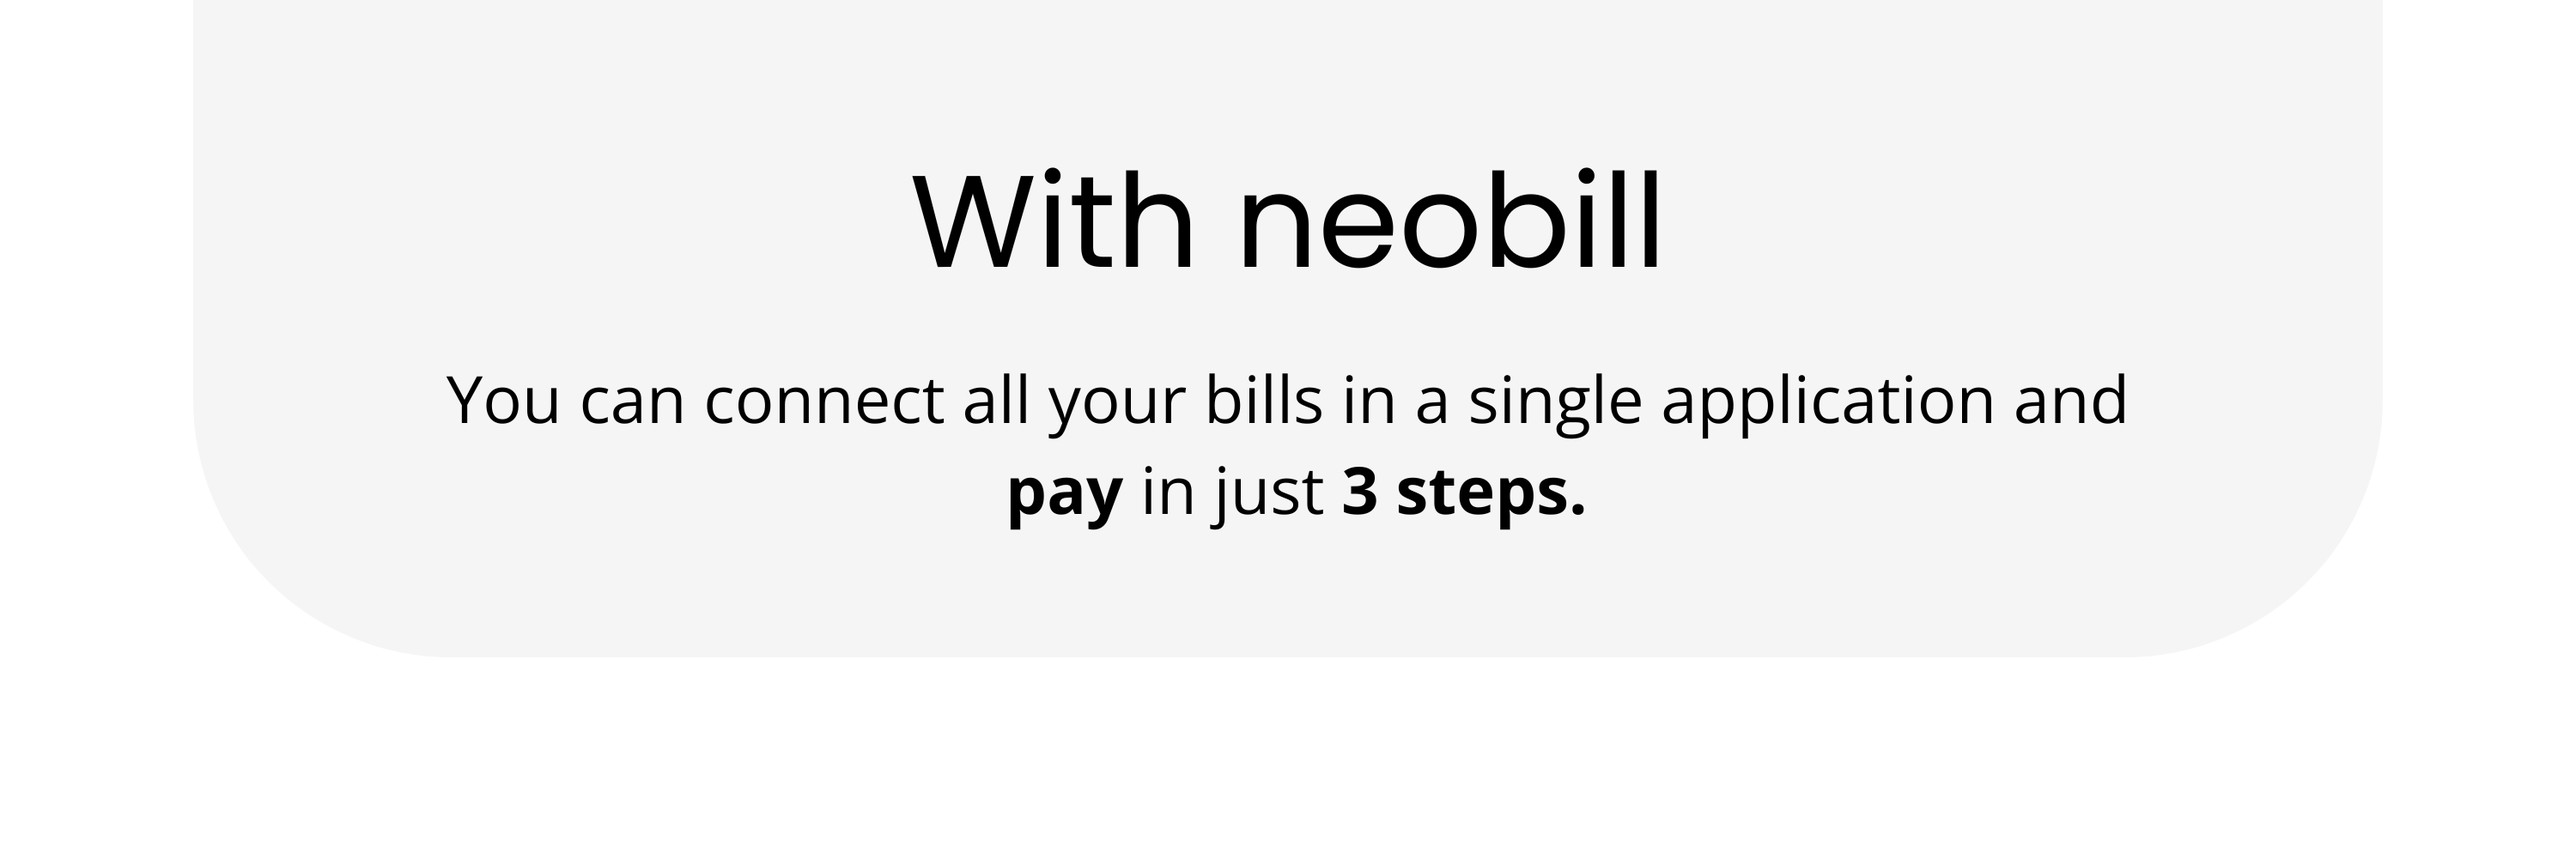
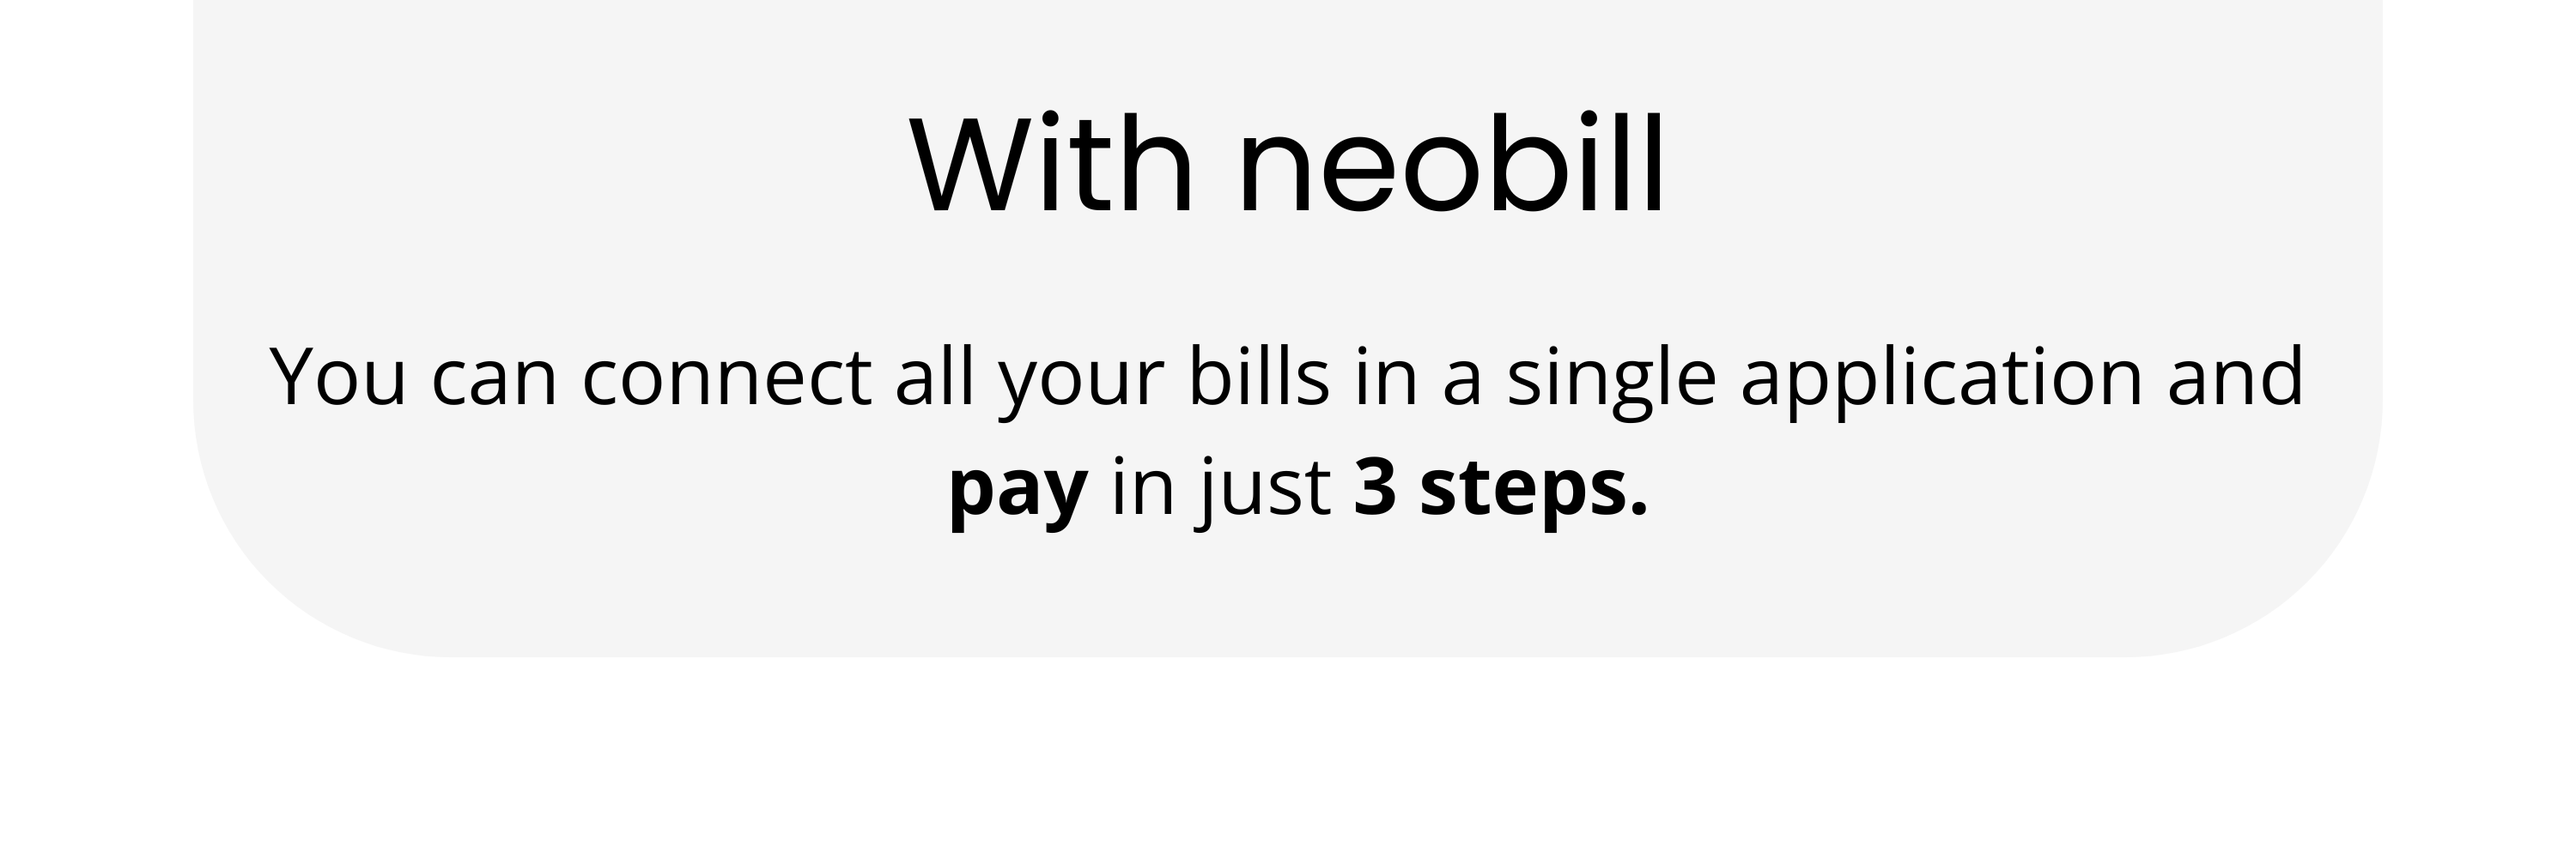
new features

Changed region(s): [[0.093, 0.403, 0.899, 0.62], [0.341, 0.124, 0.651, 0.31]]

diff --git a/index.html b/index.html
@@ -30,7 +30,7 @@
         </div>
     </section>
     <section id="user-experience" class="section bg-white py-5">
-        <div class="container text-center">
+        <div class="text-center" style="width: 100vw; max-width: 100%; margin: 0 auto;">
         <div class="ui">
             <img src="with_neob.png" alt="App Interface" class="img-fluid w-100" >
         </div>

diff --git a/styles.css b/styles.css
@@ -377,3 +377,13 @@
         transform: none !important;
     }
 }
+
+@media (max-width: 768px) {
+    #user-experience .ui img {
+        width: 100% !important;
+        width: 95vw !important;
+        display: block;
+        margin-left: auto;
+        margin-right: auto;
+    }
+}
